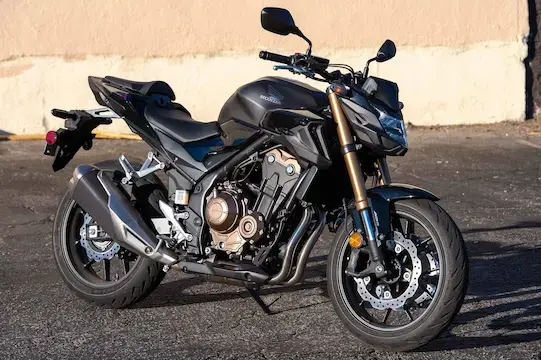
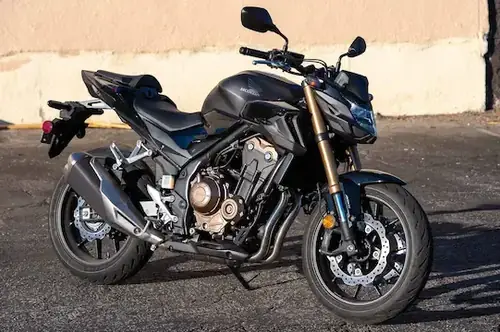
perf(images): resize all card/tile images to display size, saves ~300KB total
Made-with: Cursor

diff --git a/apps/website/components/ReviewsSection.vue b/apps/website/components/ReviewsSection.vue
@@ -15,11 +15,12 @@
             :href="review.link"
             target="_blank"
             rel="noopener noreferrer"
-            class="review-card snap-start shrink-0 w-[80vw] sm:w-[55vw] md:w-[38vw] lg:w-[28vw] max-w-sm"
+            class="snap-start shrink-0 w-[80vw] sm:w-[55vw] md:w-[38vw] lg:w-[28vw] max-w-sm block rounded-2xl p-6 no-underline shadow-[0_4px_16px_rgba(1,158,229,0.2)] transition-all duration-300 hover:-translate-y-1 hover:scale-[1.02] hover:shadow-[0_12px_32px_rgba(1,158,229,0.4)]"
+            style="background: linear-gradient(315deg, #ffffff 65%, #019ee5 100%)"
           >
             <p class="text-yellow-500 text-sm mb-2">⭐⭐⭐⭐⭐</p>
             <p class="font-bold text-gray-900 text-base mb-1">{{ review.author }}</p>
-            <p class="review-text text-gray-800 text-sm italic leading-relaxed">{{ review.text }}</p>
+            <p class="text-gray-800 text-sm italic leading-relaxed [-webkit-line-clamp:4] [line-clamp:4] [-webkit-box-orient:vertical] [display:-webkit-box] overflow-hidden [max-height:6em] transition-[max-height] duration-400">{{ review.text }}</p>
             <p class="text-xs text-gray-700 mt-3 font-semibold">→ Auf Google lesen</p>
           </a>
         </div>
@@ -174,36 +175,3 @@ function scrollTo(i: number) {
   el.scrollTo({ left: i * cardWidth, behavior: 'smooth' })
 }
 </script>
-
-<style scoped>
-.review-card {
-  display: block;
-  background: linear-gradient(315deg, #ffffff 65%, #019ee5 100%);
-  border-radius: 16px;
-  padding: 1.5rem;
-  text-decoration: none;
-  box-shadow: 0 4px 16px rgba(1, 158, 229, 0.2);
-  transition: transform 0.3s ease, box-shadow 0.3s ease;
-}
-
-.review-card:hover {
-  transform: translateY(-4px) scale(1.02);
-  box-shadow: 0 12px 32px rgba(1, 158, 229, 0.4);
-}
-
-.review-text {
-  display: -webkit-box;
-  -webkit-line-clamp: 4;
-  line-clamp: 4;
-  -webkit-box-orient: vertical;
-  overflow: hidden;
-  max-height: 6em;
-  transition: max-height 0.4s ease;
-}
-
-.review-card:hover .review-text {
-  -webkit-line-clamp: unset;
-  line-clamp: unset;
-  max-height: 20em;
-}
-</style>

diff --git a/apps/website/nuxt.config.ts b/apps/website/nuxt.config.ts
@@ -26,6 +26,8 @@ export default defineNuxtConfig({
         { rel: 'alternate', hreflang: 'de', href: 'https://drivingteam.ch' },
         { rel: 'icon', type: 'image/png', href: '/favicon.png' },
         { rel: 'apple-touch-icon', href: '/favicon.png' },
+        { rel: 'preload', as: 'image', href: '/images/logo.webp' },
+        { rel: 'preload', as: 'image', href: '/images/categories/auto-fahrschule.webp' },
       ],
     },
   },
@@ -43,6 +45,16 @@ export default defineNuxtConfig({
           'X-Content-Type-Options': 'nosniff',
           'X-Frame-Options': 'SAMEORIGIN',
           'X-XSS-Protection': '1; mode=block',
+        },
+      },
+      '/images/**': {
+        headers: {
+          'Cache-Control': 'public, max-age=31536000, immutable',
+        },
+      },
+      '/_nuxt/**': {
+        headers: {
+          'Cache-Control': 'public, max-age=31536000, immutable',
         },
       },
     },
